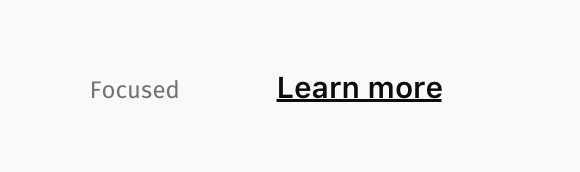
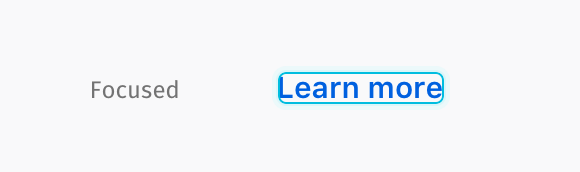
[Update] link

Changed region(s): [[0.4655, 0.407, 0.7759, 0.6395]]

diff --git a/contents/components/link.html b/contents/components/link.html
@@ -2,6 +2,7 @@
 <%- include('../includes/global/message-bar.html', {type: 'Warning', text: 'This is a working draft', button: 'Report issue'}); %>
 <header>
   <h1>Link</h1>
+  <p>Link is a text that users can click to quickly access websites.</p>
 </header>
 
 <section>
@@ -46,13 +47,13 @@
       <img class="w-100" src="../images/link/link-focused.png" alt="">
     </div>
     <div class="fl-ns w-60-ns ph2">
-      <p>Font weight: Semibold<br/>Color: Grey 90 <code>#0c0c0d</code></p>
+      <p>Font weight: Semibold<br/>Color: Blue 60 <code>#0060df</code><br/>With focused square</p>
     </div>
   </div>
 </section>
 
 <section>
-  <h2>Context of use</h2>
+  <h2>Examples</h2>
   <p> A link can follow after a sentence or an option. For a better understanding of the relationship between the link and the sententce/option, stick the link next to what it related.</p>  
   
   <div class="cf nr2 nl2">
